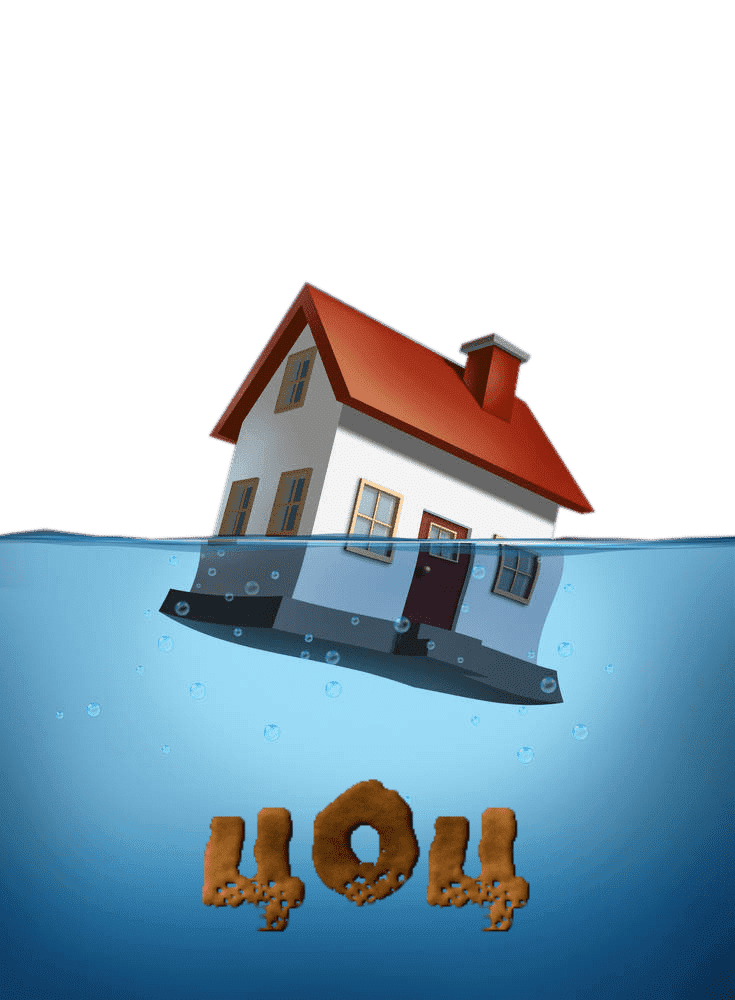
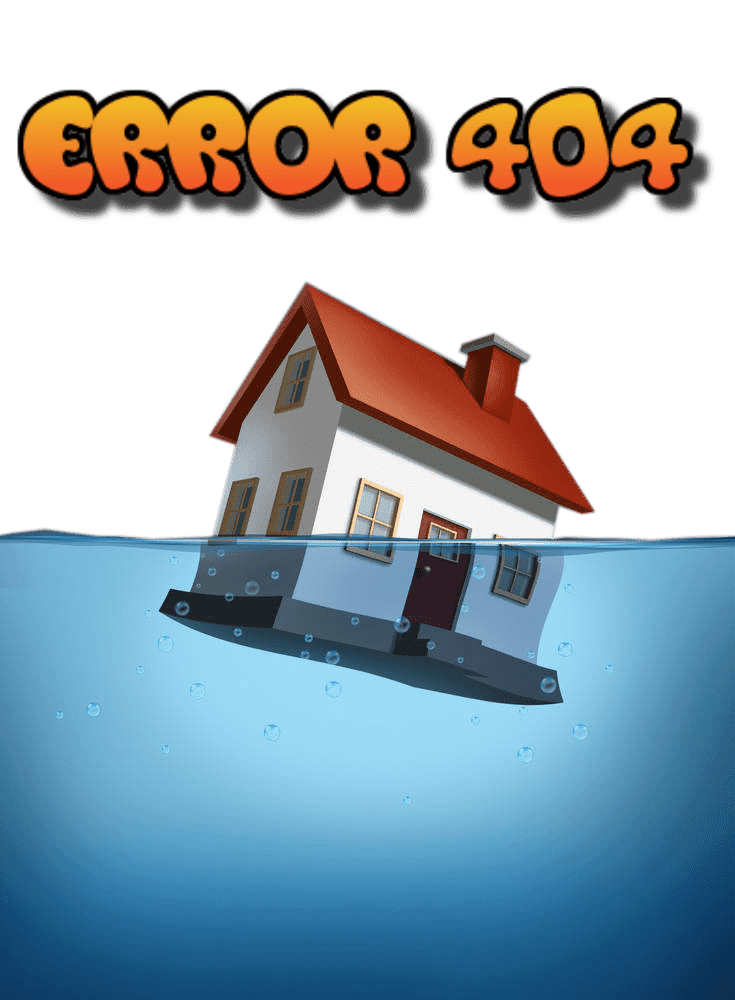
nuevos cambios en 404

Changed region(s): [[0.0, 0.062, 0.9878, 0.217], [0.2694, 0.775, 0.7184, 0.93], [0.4789, 0.496, 0.5388, 0.527]]

diff --git a/assets/scss/_body.scss b/assets/scss/_body.scss
@@ -82,7 +82,7 @@ body {
         img {
             display: block;
             height: auto;
-            width: 100%;
+            width: 70%;
         }
     }
 
@@ -91,9 +91,9 @@ body {
 
         h1 {
             font-family: "Fontdiner Swanky", cursive;
-            font-size: 3.5rem;
+            font-size: 2.5rem;
             color: $bgcolor2;
-            margin-bottom: 1.5rem;
+            margin-bottom: 1rem;
         }
 
         p {
@@ -101,7 +101,7 @@ body {
 
             em {
                 font-style: italic;
-                font-size: 1.5rem;
+                font-size: 1rem;
                 color: $bgcolor3;
             }
         }
@@ -109,7 +109,7 @@ body {
         button {
             font-family: Georgia, 'Times New Roman', Times, serif;
             font-weight: bold;
-            font-size: 1.5rem;
+            font-size: 1rem;
             color: $bgcolor1;
             border: none;
             background-color: $bgcolor2;

diff --git a/assets/css/estilo.css b/assets/css/estilo.css
@@ -60,25 +60,25 @@ body {
   #error404 aside img {
     display: block;
     height: auto;
-    width: 100%; }
+    width: 70%; }
 
 #error404 main {
   text-align: center; }
   #error404 main h1 {
     font-family: "Fontdiner Swanky", cursive;
-    font-size: 3.5rem;
+    font-size: 2.5rem;
     color: #680005;
-    margin-bottom: 1.5rem; }
+    margin-bottom: 1rem; }
   #error404 main p {
     margin-bottom: 2.5rem; }
     #error404 main p em {
       font-style: italic;
-      font-size: 1.5rem;
+      font-size: 1rem;
       color: #4a0004; }
   #error404 main button {
     font-family: Georgia, 'Times New Roman', Times, serif;
     font-weight: bold;
-    font-size: 1.5rem;
+    font-size: 1rem;
     color: #ffffff;
     border: none;
     background-color: #680005;
